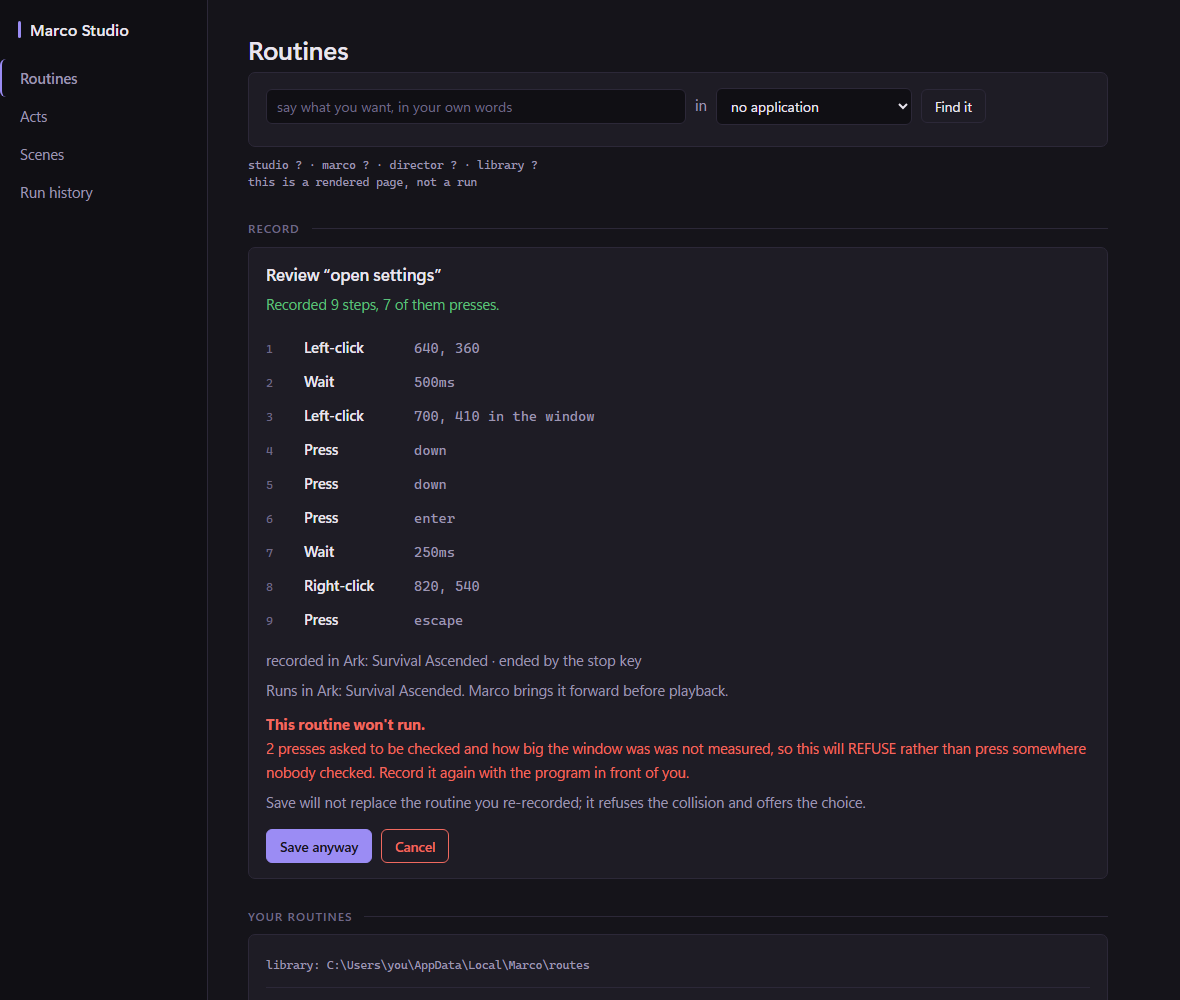
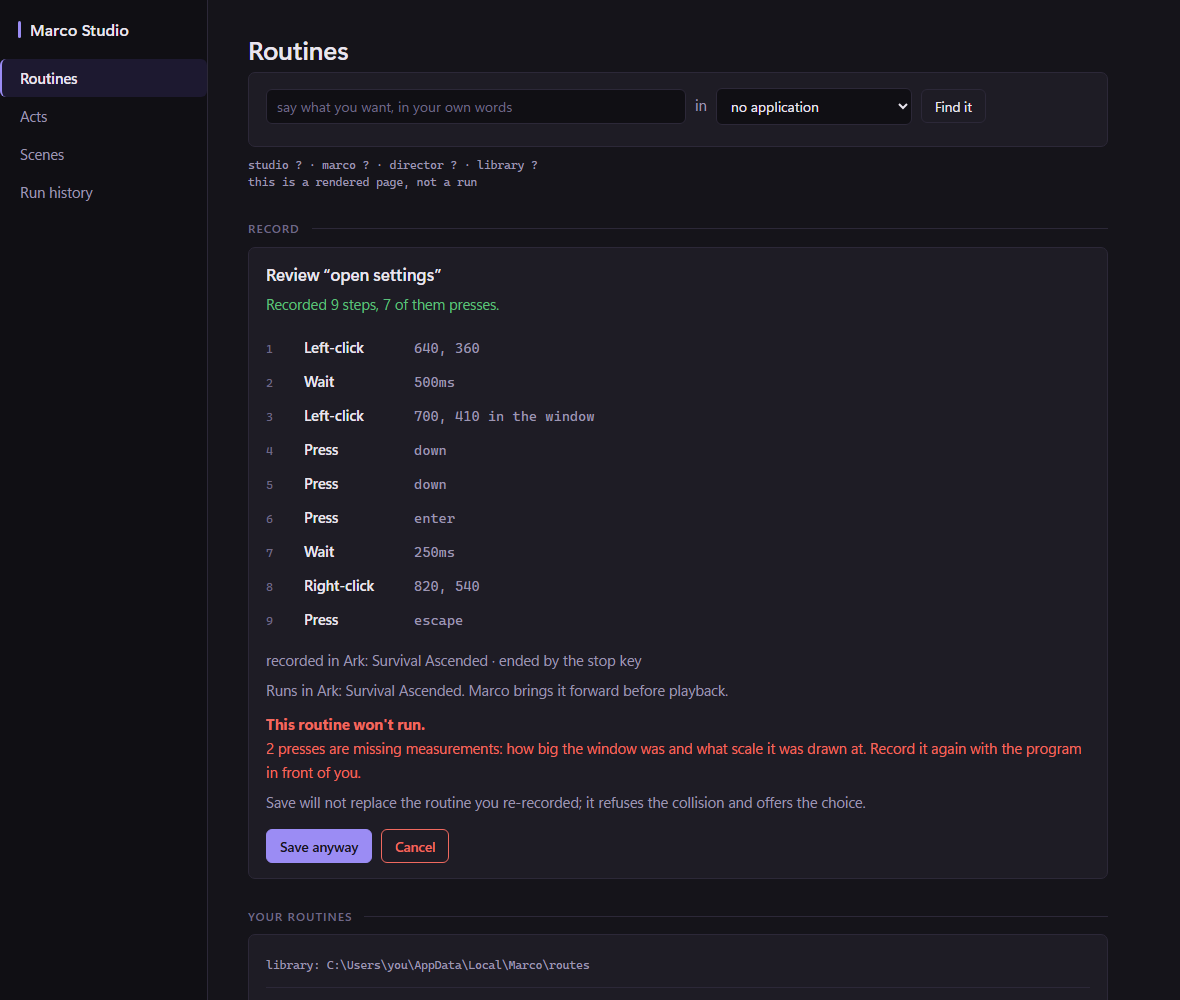
studio: the copy reduction, and one line that was being said twice
Approved as the last piece of the UI slice: the incomplete review repeated its
own headline with another explanation of refusing, and the selected routine's
account of what it checks was a paragraph. Words, before and after:

    the review's reason a routine will not run        34 -> 20
    the same, on a Windows that can never report      51 -> 37
      a scale
    what a guarded routine checks                     34 -> 15
    what a legacy routine does not check              30 -> 19
    why a saved routine refuses every press           40 -> 17

WHAT CAME OUT IS WHAT THE SCREEN ALREADY SAYS. The review's reason said REFUSE
under a heading reading `This routine won't run.` and above a button reading
`Save anyway`: one fact in three places, and the heading is the one that cannot
be missed. The guarded sentence named the three measurements twice over. The
legacy one closed on how routines saved before Marco measured windows behave,
which is this program's history rather than anything about the routine in front
of somebody.

AND ONE LINE WENT ENTIRELY. For an incomplete routine the listing handed ONE
sentence to both `Checks` and `Why`, and the panel paints both -- so the one
routine whose panel is worth reading carefully said the same words twice in a
row, the second time in a red banner. It is in `Why` alone now, which is the red
one, beside a Play button that will not run.

WHAT WAS KEPT, DELIBERATELY: which measurement did not arrive, in every case,
[…]

Changed region(s): [[0.2746, 0.744, 0.9153, 0.775], [0.0, 0.062, 0.1831, 0.124]]

diff --git a/plugins/studio/frontend/index.html b/plugins/studio/frontend/index.html
@@ -2399,7 +2399,12 @@
    // panel used to open with provenance and never name the routine it was about.
    text($('routineIdentity'), r.name || '')
    text($('routineIdentityWhere'), whereItWorks(r))
+   // WHAT IT CHECKS, WHEN THAT IS NOT WHAT THE BANNER BELOW SAYS. An incomplete
+   // routine's checking and its reason for refusing are one sentence, and the backend
+   // sends it as `why` alone rather than in both — so an empty line here is a line that
+   // would have been the next one twice. See routines.go.
    text($('routineChecks'), r.checks || '')
+   showing($('routineChecks'), !!r.checks)
    // WHAT IT WAS RECORDED AS, OR NOTHING AT ALL. See the element's comment: absent is
    // rendered as absent, and `recorded as` names it as a statement the file makes rather
    // than as a property this window worked out.

diff --git a/plugins/studio/routines.go b/plugins/studio/routines.go
@@ -101,10 +101,12 @@ type Routine struct {
 	// legacy, guarded or incomplete. The BASIS is the contract and everything else is a
 	// measurement, so this is a state the saved file is IN. See ADR-251.
 	Contract string `json:"contract"`
-	// Checks is that in a sentence, which is the part a person needs: "every press is
-	// checked against the window it was recorded in" is the promise, and "it does not
-	// say what scale that window was drawn at, so it will refuse rather than press" is
-	// the one case where reading it beforehand saves somebody a minute of refusals.
+	// Checks is that in a sentence, which is the part a person needs: what is checked
+	// before each press, and what the routine does when a check fails.
+	//
+	// EMPTY WHEN Why SAYS IT. An incomplete routine's account of its own checking IS the
+	// reason it will not run, and the panel renders both lines one under the other — so
+	// for that contract this is left empty and the sentence is in Why. See Routines.
 	Checks string `json:"checks,omitempty"`
 	// Mode is what the saved source STATES it was recorded as, and Captures is that in a
 	// sentence. Both absent when it says nothing.
@@ -272,7 +274,15 @@ func (a *Acts) Routines() []Routine {
 			// IT SAVES AND THEN REFUSES, which is the contract working rather
 			// than a broken file — and it is still not something to press Play on
 			// and watch. The sentence says what it lacks; see ADR-251.
-			r.Why = r.Checks
+			//
+			// AND IT IS SAID ONCE. The sentence MOVES: it was handed to both
+			// fields and the panel renders both, the checks line and then the
+			// refusal banner under it, so an incomplete routine said the same
+			// words twice in a row. The banner is where it belongs — it is red,
+			// it is beside a Play button that will not run, and a person reading
+			// one line reads that one. Held by
+			// TestNothingInTheRoutinePanelIsSaidTwice.
+			r.Why, r.Checks = r.Checks, ""
 		default:
 			// AND IS IT STILL LEGAL MARCO. Asked through the production checker,
 			// because a routine is a file somebody can open and edit and the
@@ -328,25 +338,29 @@ func scopeWord(rt routes.Route) string {
 
 // checksSentence says what a routine's contract means for pressing Play on it.
 //
-// Three sentences for three states, and the middle one is the only promise: a legacy routine
-// presses where it was recorded having checked nothing, which is how every routine saved before
-// any of this behaves and is not a fault to report — it is what somebody chose when they saved
-// it. See ADR-251.
+// Three sentences for three states, and the first is the only promise: a legacy routine presses
+// where it was recorded having checked nothing, which is how every routine saved before any of
+// this behaves and is not a fault to report — it is what somebody chose when they saved it. See
+// ADR-251.
+//
+// SHORT ENOUGH TO BE READ BEFORE PLAY, which is the only moment it is for. The guarded sentence
+// was 32 words naming the three measurements twice over, and ended in a promise that took a
+// clause of its own; the legacy one closed with a sentence about how routines saved before Marco
+// measured windows behave, which is this program's history rather than anything about the
+// routine in front of somebody. What each one has to carry is WHAT IS CHECKED and WHAT HAPPENS
+// WHEN A CHECK FAILS. The incomplete one carries the measurement as well, because which
+// measurement is missing is what decides whether another demonstration would help.
 func checksSentence(c orchestrator.Contract, lacks []string) string {
 	switch c {
 	case orchestrator.Guarded:
-		return "Every press is checked against the window it was recorded in — the " +
-			"same program, the same size, the same scale — and the routine stops " +
-			"at the first press that cannot be checked."
+		return "Checks the program, window size and scale before each press. Stops " +
+			"if a check fails."
 	case orchestrator.Incomplete:
-		return "A press in this routine asks to be checked against the window it was " +
-			"made in and the recording is missing " + andAll(saidTerms(lacks)) +
-			", so it will refuse rather than press somewhere nobody checked. " +
-			"Record it again."
+		return "The recording is missing " + andAll(saidTerms(lacks)) + ", so every " +
+			"press refuses. Record it again."
 	default:
 		return "Its presses are not checked: each one happens at the point it was " +
-			"recorded at, whatever is there now. This is how every routine saved " +
-			"before Marco measured windows behaves."
+			"recorded at, whatever is there now."
 	}
 }
 

diff --git a/plugins/studio/routines_test.go b/plugins/studio/routines_test.go
@@ -191,9 +191,17 @@ func TestASavedRoutineIsListedAndReadyToPlay(t *testing.T) {
 	if r.Contract != string(orchestrator.Guarded) {
 		t.Errorf("its contract is %q, want %q", r.Contract, orchestrator.Guarded)
 	}
-	if !strings.Contains(r.Checks, "checked against the window it was recorded in") {
-		t.Errorf("the sentence about its presses does not say they are checked: %q",
-			r.Checks)
+	// THE TWO MEANINGS, NOT THE OLD SENTENCE. This asserted the clause "checked against
+	// the window it was recorded in" and the copy pass shortened the sentence to
+	// "Checks the program, window size and scale before each press. Stops if a check
+	// fails." — 14 words for the 32 it replaced, saying the same two things. What a person
+	// needs before Play is WHAT IS CHECKED and WHAT HAPPENS WHEN A CHECK FAILS, so those
+	// are what is held: the three measurements by name, and the stop.
+	for _, want := range []string{"program", "size", "scale", "stop"} {
+		if !strings.Contains(strings.ToLower(r.Checks), want) {
+			t.Errorf("the sentence about its presses does not mention %q: %q",
+				want, r.Checks)
+		}
 	}
 	// AND THE MARCO IT WAS SAVED AS, because a routine is legal Marco so that somebody
 	// can read what they kept and recognise it.
@@ -336,6 +344,68 @@ func TestARoutineMissingAMeasurementIsNotOfferedForPlay(t *testing.T) {
 	}
 	if why := playing(t, a, "ark graphics"); why == "" {
 		t.Fatal("pressing Play on it started a run")
+	}
+}
+
+// AND THE PANEL NEVER SAYS ONE THING TWICE.
+//
+// The selected routine's panel renders the checks line and then, under it, the reason it will not
+// run. For an incomplete routine those were THE SAME STRING — the listing handed one sentence to
+// both fields — so the one routine whose panel a person has a reason to read carefully said the
+// same words in two consecutive lines, the second of them in a red banner.
+//
+// What is held is the SHAPE of that mistake rather than the one case of it: no two lines of this
+// panel carry the same sentence, whatever the contract. And the half that must survive the fix is
+// asserted here too: whichever line says it, the measurement is still named, because which one is
+// missing is what decides whether another demonstration would help.
+func TestNothingInTheRoutinePanelIsSaidTwice(t *testing.T) {
+	for _, c := range []struct {
+		what string
+		lose func(*recorder.RecordedEvent)
+		says string
+	}{
+		{"everything was measured", nil, ""},
+		{"the scale could not be read",
+			func(p *recorder.RecordedEvent) { p.Dpi = 0 },
+			"what scale it was drawn at"},
+		{"the window would not say how big it is",
+			func(p *recorder.RecordedEvent) { p.WinW, p.WinH = 0, 0 },
+			"how wide that window was"},
+	} {
+		t.Run(c.what, func(t *testing.T) {
+			a := aSavedRoutine(t, "app-anywhere", c.lose)
+			r, found := routineCalled(a.Routines(), "ark graphics")
+			if !found {
+				t.Fatal("it is not listed at all")
+			}
+			// EVERY LINE THE PANEL PAINTS FROM THIS ROW, and the sentence
+			// each one would show. `Captures` and `Wrote` are in the
+			// collapsed detail; these four are the ones above Play.
+			lines := map[string]string{
+				"checks": r.Checks, "why": r.Why,
+				"captures": r.Captures, "wrote": r.Wrote,
+			}
+			for one, said := range lines {
+				for other, also := range lines {
+					if one >= other || said == "" {
+						continue
+					}
+					if said == also {
+						t.Errorf("the %s line and the %s "+
+							"line both read %q", one,
+							other, said)
+					}
+				}
+			}
+			if c.says == "" {
+				return
+			}
+			if !strings.Contains(r.Checks+" "+r.Why, c.says) {
+				t.Errorf("nothing in the panel names the missing "+
+					"measurement %q: checks %q, why %q",
+					c.says, r.Checks, r.Why)
+			}
+		})
 	}
 }
 

diff --git a/plugins/studio/recording_test.go b/plugins/studio/recording_test.go
@@ -503,7 +503,13 @@ func TestReviewExplainsAMeasurementThatFailed(t *testing.T) {
 		t.Error("the draft does not say it is incomplete, so the page has " +
 			"nothing to warn with")
 	}
-	for _, want := range []string{"1 press", "which program owned it", "REFUSE",
+	// THE COUNT, THE MEASUREMENT AND THE REPAIR — and `REFUSE` is not one of them any
+	// more. The page says it won't run in the heading directly above this sentence and
+	// offers `Save anyway` directly below it, so the clause that said it a third time is
+	// gone. That the SCREEN still says it is held by the page's own test
+	// (TestTheReviewSaysItWillNotRunAboveTheReason); what this sentence has to carry is
+	// which measurement did not arrive and whether another demonstration would help.
+	for _, want := range []string{"1 press", "which program owned it",
 		"Record it again"} {
 		if !strings.Contains(r.Missing, want) {
 			t.Errorf("the account reads %q and does not mention %q",
@@ -682,6 +688,43 @@ func TestARecordingAndARunExcludeEachOther(t *testing.T) {
 	if why := a.StartRecording("something else", ""); why == "" {
 		t.Error("a second recording was started over a draft nobody had saved " +
 			"or cancelled")
+	}
+}
+
+// AND THE SENTENCE AGREES WITH ITS OWN COUNT.
+//
+// # Why this is a test and not a reading
+//
+// `1 press lack` reached the screen in this file's previous copy pass, from a format string that
+// counted presses and then named one in a word that did not bend with the count. The copy pass
+// after it shortened the sentence again, which moved the verb — so this is the second edit in two
+// changes to touch exactly the construction that broke, and neither edit could be checked by
+// reading the format string, because both readings looked right.
+//
+// So the function is called over one unmeasured press and then two, and what is asserted is the
+// agreement itself. The measurement names are CLAUSES ("which program owned it"), which is why
+// they are introduced with a colon rather than hung off a verb; that is asserted too, since a
+// later shortening that drops the colon produces "1 press is missing which program owned it".
+func TestTheWontRunSentenceAgreesWithItsOwnCount(t *testing.T) {
+	// A press that asked to be checked and whose program had gone: the one measurement
+	// that fails after the hooks are down. See notMeasured.
+	press := macroir.Step{Kind: macroir.StepClick, RelTo: macroir.RelToWindow,
+		WinRel: true, RelX: 10, RelY: 20, WinW: 1920, WinH: 1080, Dpi: 144}
+	for _, c := range []struct {
+		presses int
+		want    string
+	}{
+		{1, "1 press is missing a measurement: which program owned it."},
+		{2, "2 presses are missing measurements: which program owned it."},
+	} {
+		steps := make([]macroir.Step, c.presses)
+		for i := range steps {
+			steps[i] = press
+		}
+		if said := whyItWillNotRun(steps); !strings.Contains(said, c.want) {
+			t.Errorf("%d unmeasured press(es) reads %q, which does not open "+
+				"%q", c.presses, said, c.want)
+		}
 	}
 }
 

diff --git a/plugins/studio/recording.go b/plugins/studio/recording.go
@@ -872,12 +872,14 @@ func whyItWillNotRun(steps []macroir.Step) string {
 			missing = append(missing, one)
 		}
 	}
-	// SHORTER, BUT IT STILL NAMES WHICH MEASUREMENT DID NOT ARRIVE.
+	// TWO THINGS, AND THE SCREEN SAYS THE REST OF IT.
 	//
-	// This was one 50-word sentence carrying four things: how many presses, which
-	// measurements were absent, what saving would mean, and what to do. The page now says
-	// the third of those itself — `This routine won't run.` above this, and `Save anyway`
-	// on the button — so that clause is gone from here.
+	// This was one 50-word sentence carrying four: how many presses, which measurements
+	// were absent, what saving one of these would mean, and what to do about it. The page
+	// says the third itself — `This routine won't run.` immediately above this, `Save
+	// anyway` on the button below it — and then said REFUSE here as well, so the person
+	// read one fact under a heading that had just made it. What is left is the count and
+	// the named measurement, and then the repair.
 	//
 	// THE NAMED MEASUREMENT STAYS, and a first attempt at this cut it. Three tests exist to
 	// stop exactly that: `TestReviewNamesWhicheverMeasurementFailed` walks the four things
@@ -886,20 +888,24 @@ func whyItWillNotRun(steps []macroir.Step) string {
 	// means recording it again will NOT help, and the other three mean it will. A person
 	// deciding whether to keep this needs to know which they have.
 	//
-	// So the reduction is the clause the screen now carries, not the one it does not.
+	// So what goes is what the screen carries, never what only this sentence can say.
 	repair := "Record it again with the program in front of you."
 	if lacks["what scale it was drawn at"] && !canReadWindowScale() {
 		repair = "This computer's Windows cannot report a window's scale, so a " +
 			"routine that checks the window it was made in cannot be made " +
 			"on this machine."
 	}
-	press := "press"
+	// AND IT AGREES WITH ITSELF. A `%d press(es)` and a verb that does not bend with it
+	// is how `1 press lack` reached the screen in this file's last copy pass; and the
+	// things that can be absent are CLAUSES — "which program owned it", "what scale it
+	// was drawn at" — so they are introduced rather than used as the object of a verb,
+	// which is how "1 press lacks which program owned it" reads.
+	press, are, measurement := "press", "is", "a measurement"
 	if presses > 1 {
-		press = "presses"
+		press, are, measurement = "presses", "are", "measurements"
 	}
-	return fmt.Sprintf("%d %s asked to be checked and %s was not measured, so this "+
-		"will REFUSE rather than press somewhere nobody checked. %s",
-		presses, press, andAll(missing), repair)
+	return fmt.Sprintf("%d %s %s missing %s: %s. %s",
+		presses, press, are, measurement, andAll(missing), repair)
 }
 
 // andAll is a list a person reads: "a", "a and b", "a, b and c".

diff --git a/plugins/studio/journeypage_test.go b/plugins/studio/journeypage_test.go
@@ -385,6 +385,41 @@ func TestEveryStepSentenceTheBackendWritesHasAVerb(t *testing.T) {
 	}
 }
 
+// AND THE REVIEW SAYS IT WILL NOT RUN, IN THE PAGE, ABOVE THE REASON.
+//
+// This is the other end of a copy cut. `whyItWillNotRun` used to say three things — the count,
+// the measurement, and that the routine would REFUSE — under a heading that had just said the
+// third of them and above a button that said it again. The refusal clause came out of the
+// backend sentence, and a test in `recording_test.go` stopped asserting the word.
+//
+// Which leaves the SCREEN as the only thing that says it, so the screen is where it is held: the
+// heading exists, it reads as a refusal, it is immediately above the reason, and it appears under
+// the same condition — a box shown on `r.missing` with the reason inside it, rather than two
+// elements with two conditions, one of which can be false while the other is true.
+func TestTheReviewSaysItWillNotRunAboveTheReason(t *testing.T) {
+	page := thePage(t)
+	box := between(t, page, `id="capWontRunBox"`, `id="capUnsupported"`)
+	if !strings.Contains(box, "This routine won't run.") {
+		t.Errorf("the review does not say the routine will not run above the reason "+
+			"it will not: %q", box)
+	}
+	if !before(box, "won't run", `id="capMissing"`) {
+		t.Error("the reason comes before the heading that makes sense of it")
+	}
+	// ONE CONDITION FOR BOTH, which is what the box is for: a heading that can stand
+	// over nothing, or a reason that can stand under nothing, is the state this
+	// arrangement exists to make impossible.
+	js := page[strings.Index(page, "<script>"):]
+	if !regexp.MustCompile(`showing\(\$\('capWontRunBox'\),\s*!!r\.missing\)`).MatchString(js) {
+		t.Error("the won't-run heading is no longer shown by the same answer that " +
+			"fills the reason")
+	}
+	if regexp.MustCompile(`showing\(\$\('capMissing'\)`).MatchString(js) {
+		t.Error("the reason has acquired a condition of its own, so it can be shown " +
+			"without the heading or hidden under it")
+	}
+}
+
 // AND THE BUTTON SAYS `Save anyway` ONLY WHEN SAVING IS ALLOWED AND THE ROUTINE WILL NOT RUN.
 //
 // Two states that read alike and are not: `incomplete` SAVES and then refuses to press, so

diff --git a/docs/Studio-UI-audit-2026-10-29.md b/docs/Studio-UI-audit-2026-10-29.md
@@ -317,3 +317,48 @@ Ten headless renders, at `docs/images/studio-ui/`, and collected with their clai
   page**, and the instruction gone.
 - `plugins/studio` `TestTheReviewShowsTheStepsBeforeEverythingAboutThem` — the eight-element
   order, and the scope chooser's condition unchanged.
+
+### The copy reduction, after the visual pass
+
+Approved as the last piece of this slice: *"the incomplete review repeats its headline with
+another explanation of refusal"*, and the selected routine's checks paragraph was a paragraph.
+Measured in words, before and after:
+
+| | before | after |
+| --- | --- | --- |
+| the review's reason a routine will not run | 34 | 20 |
+| the same, on a Windows that can never report a scale | 51 | 37 |
+| what a guarded routine checks | 34 | 15 |
+| what a legacy routine does not check | 30 | 19 |
+| why a saved routine refuses every press | 40 | 17 |
+
+**What came out, in each case, is the thing the screen says itself.** The review's reason said
+`REFUSE` under a heading reading `This routine won't run.` and above a button reading
+`Save anyway` — one fact in three places, and the heading is the one that cannot be missed. The
+guarded sentence named the three measurements twice over. The legacy sentence closed on how
+routines saved before Marco measured windows behave, which is this program's history rather than
+anything about the routine in front of somebody.
+
+**And one line went entirely.** For an incomplete routine the listing handed ONE sentence to both
+`Checks` and `Why`, and the panel renders both — so the one routine whose panel is worth reading
+carefully said the same words twice in a row, the second time in a red banner. The sentence is
+in `Why` alone now.
+
+**What was kept, deliberately:** which measurement did not arrive, in every case, because
+`what scale it was drawn at` on a Windows that cannot report one means another demonstration will
+not help and the other three mean it will; and the separate remedy for that Windows, which is the
+one case where `Record it again` is the wrong advice.
+
+### Held by, after the copy reduction
+
+- `plugins/studio` `TestTheReviewSaysItWillNotRunAboveTheReason` — the page says the routine will
+  not run, immediately above the reason, under the same condition. This is the half the backend
+  sentence stopped saying, so the screen is where it is now asserted.
+- `plugins/studio` `TestNothingInTheRoutinePanelIsSaidTwice` — no two lines of the selected
+  routine's panel carry the same sentence, whatever the contract, and the missing measurement is
+  still named by one of them.
+- `plugins/studio` `TestTheWontRunSentenceAgreesWithItsOwnCount` — `1 press is` and
+  `2 presses are`, over the real function. `1 press lack` reached the screen in the pass before
+  this one, from a format string that read correctly.
+- `plugins/studio` `TestASavedRoutineIsListedAndReadyToPlay` — the guarded sentence by its two
+  meanings (what is checked, and that it stops) rather than by its old wording.
